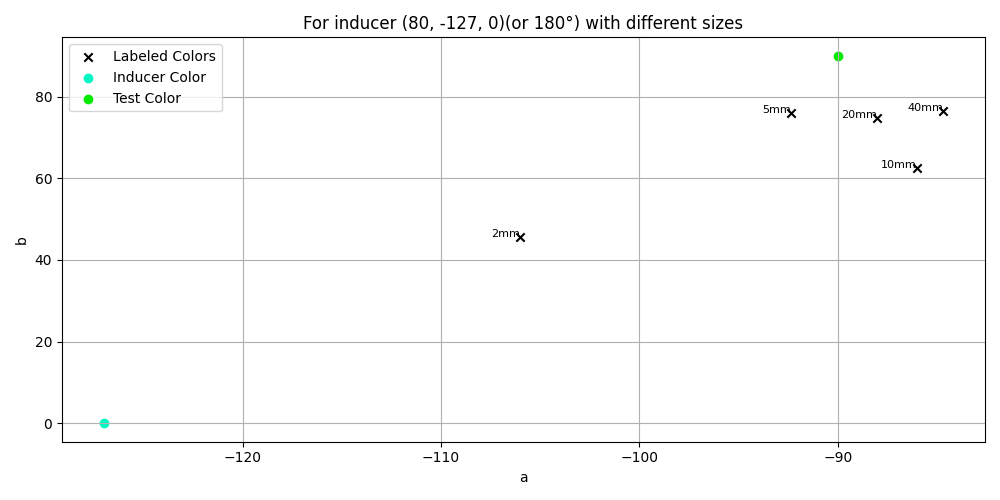
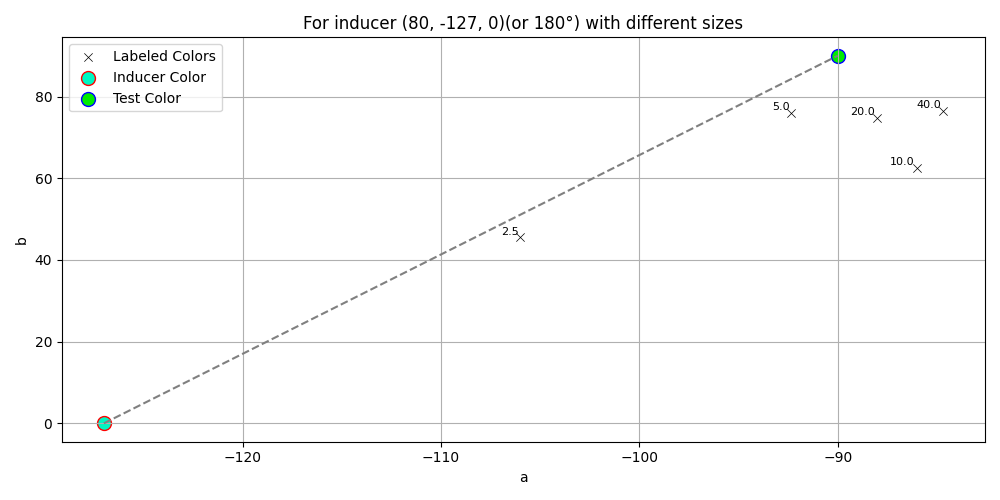
fix

diff --git a/statistics/histogram_delta_lab_e_all.py b/statistics/histogram_delta_lab_e_all.py
@@ -1,0 +1,159 @@
+import os
+import numpy as np
+import pandas as pd
+import matplotlib.pyplot as plt
+import colorsys
+
+# 从CSV文件中读取数据
+df = pd.read_csv('../updated_averaged_data_012.csv')
+
+# 提取数据
+test_color = np.array([80, -90, 90])
+inducer_colors = df[['L_inducer', 'a_inducer', 'b_inducer']].values
+labeled_colors = df[['L_label_mean', 'a_label_mean', 'b_label_mean']].values
+bar_colors = df[['R_inducer', 'G_inducer', 'B_inducer']].values / 255  # 归一化到0-1之间
+
+# 检查数据加载是否正确
+print("Data loaded successfully:")
+print(df.head())
+
+# 提取独特的sizes和hues
+unique_sizes = np.sort(df['size'].unique())
+unique_hues = np.sort(df['hue_inducer'].unique())
+
+
+# 将hue_inducer转换为RGB颜色
+def hue_to_rgb(hue):
+    return colorsys.hsv_to_rgb(hue / 360.0, 1.0, 1.0)
+
+
+# 计算ΔL, Δa, Δb
+df['ΔL'] = df['L_label_mean'] - test_color[0]
+df['Δa'] = df['a_label_mean'] - test_color[1]
+df['Δb'] = df['b_label_mean'] - test_color[2]
+
+# 计算ΔL, Δa, Δb的标准误差
+df['ΔL_sem'] = df['L_label_sem']
+df['Δa_sem'] = df['a_label_sem']
+df['Δb_sem'] = df['b_label_sem']
+
+# 计算ΔE
+df['ΔE'] = np.sqrt(df['ΔL'] ** 2 + df['Δa'] ** 2 + df['Δb'] ** 2)
+
+# 计算ΔE的标准误差
+df['ΔE_sem'] = np.sqrt(
+    (df['ΔL'] / df['ΔE'] * df['ΔL_sem']) ** 2 +
+    (df['Δa'] / df['ΔE'] * df['Δa_sem']) ** 2 +
+    (df['Δb'] / df['ΔE'] * df['Δb_sem']) ** 2
+)
+
+# 检查新列是否正确添加
+print("ΔL, Δa, Δb, ΔE columns added:")
+print(df[['ΔL', 'Δa', 'Δb', 'ΔE', 'ΔL_sem', 'Δa_sem', 'Δb_sem', 'ΔE_sem']].head())
+
+
+# 创建绘图函数
+def plot_labels(label_column, sem_column, y_label, file_name, test_value=None):
+    plt.figure(figsize=(20, 10))
+    x_ticks = []
+    x_positions = []
+
+    for hue in unique_hues:
+        mask = (df['hue_inducer'] == hue)
+        sorted_df = df[mask].sort_values(by='size')
+
+        sorted_labels = sorted_df[label_column].values
+        sorted_sems = sorted_df[sem_column].values if sem_column in sorted_df.columns else np.zeros_like(sorted_labels)
+        sorted_sizes = sorted_df['size'].values
+
+        positions = []
+        for i, size in enumerate(sorted_sizes):
+            color = hue_to_rgb(hue)
+            position = len(x_ticks) + 1
+            x_ticks.append(f'{size}')
+            x_positions.append(position)
+            positions.append(position)
+            plt.bar(position, sorted_labels[i], color=color, yerr=sorted_sems[i], capsize=5)
+
+        # 绘制线条连接相同颜色的点
+        plt.plot(positions, sorted_labels, color='black', marker='o', markersize=5, markerfacecolor='black')
+
+        x_ticks.append(f'(Hue {hue})')
+        x_positions.append(len(x_ticks) + 0.5)
+
+    # 绘制test_color对应的虚线
+    if test_value is not None:
+        plt.axhline(y=test_value, color='grey', linestyle='--', linewidth=2)
+
+    plt.xticks(ticks=np.arange(1, len(x_ticks) + 1), labels=x_ticks, rotation=90)
+    plt.xlabel("Size (and Hue in brackets)")
+    plt.ylabel(y_label)
+    plt.title(f"{y_label} for different Hues and Sizes")
+    plt.grid(True)
+    plt.tight_layout()
+    plt.savefig(f'delta_inducer/{file_name}')
+    plt.close()
+
+
+# 创建绘图函数用于不同尺寸
+def plot_labels_by_size(label_column, sem_column, y_label, file_name, test_value=None):
+    plt.figure(figsize=(20, 10))
+    x_ticks = []
+    x_positions = []
+
+    for size in unique_sizes:
+        mask = (df['size'] == size)
+        sorted_df = df[mask].sort_values(by='hue_inducer')
+
+        sorted_labels = sorted_df[label_column].values
+        sorted_sems = sorted_df[sem_column].values if sem_column in sorted_df.columns else np.zeros_like(sorted_labels)
+        sorted_hues = sorted_df['hue_inducer'].values
+
+        positions = []
+        for i, hue in enumerate(sorted_hues):
+            color = hue_to_rgb(hue)
+            position = len(x_ticks) + 1
+            x_ticks.append(f'{hue}')
+            x_positions.append(position)
+            positions.append(position)
+            plt.bar(position, sorted_labels[i], color=color, yerr=sorted_sems[i], capsize=5)
+
+        # 绘制线条连接相同尺寸的点
+        plt.plot(positions, sorted_labels, color='black', marker='o', markersize=5, markerfacecolor='black')
+
+        x_ticks.append(f'(Size {size})')
+        x_positions.append(len(x_ticks) + 0.5)
+
+    # 绘制test_color对应的虚线
+    if test_value is not None:
+        plt.axhline(y=test_value, color='grey', linestyle='--', linewidth=2)
+
+    plt.xticks(ticks=np.arange(1, len(x_ticks) + 1), labels=x_ticks, rotation=90)
+    plt.xlabel("Hue (and Size in brackets)")
+    plt.ylabel(y_label)
+    plt.title(f"{y_label} for different Sizes and Hues")
+    plt.grid(True)
+    plt.tight_layout()
+    plt.savefig(f'delta_size/{file_name}')
+    plt.close()
+
+
+# 创建保存目录
+if not os.path.exists('delta_inducer'):
+    os.makedirs('delta_inducer')
+if not os.path.exists('delta_size'):
+    os.makedirs('delta_size')
+
+# 绘制 ΔL, Δa, Δb 和 ΔE 图表 (按hue)
+plot_labels('ΔL', 'ΔL_sem', 'ΔL', 'ΔL_vs_diff_hue.png')
+plot_labels('Δa', 'Δa_sem', 'Δa', 'Δa_vs_diff_hue.png')
+plot_labels('Δb', 'Δb_sem', 'Δb', 'Δb_vs_diff_hue.png')
+plot_labels('ΔE', 'ΔE_sem', 'ΔE', 'ΔE_vs_diff_hue.png')
+
+# 绘制 ΔL, Δa, Δb 和 ΔE 图表 (按size)
+plot_labels_by_size('ΔL', 'ΔL_sem', 'ΔL', 'ΔL_vs_diff_size.png')
+plot_labels_by_size('Δa', 'Δa_sem', 'Δa', 'Δa_vs_diff_size.png')
+plot_labels_by_size('Δb', 'Δb_sem', 'Δb', 'Δb_vs_diff_size.png')
+plot_labels_by_size('ΔE', 'ΔE_sem', 'ΔE', 'ΔE_vs_diff_size.png')
+
+print("Plots generated successfully.")

diff --git a/statistics/inducer_unique.py b/statistics/inducer_unique.py
@@ -3,6 +3,7 @@ import numpy as np
 import pandas as pd
 import matplotlib.pyplot as plt
 from skimage.color import deltaE_cie76
+from adjustText import adjust_text
 
 # 从CSV文件中读取数据
 df = pd.read_csv('../updated_averaged_data_012.csv')
@@ -13,7 +14,7 @@ inducer_colors = df[['L_inducer', 'a_inducer', 'b_inducer']].values
 labeled_colors = df[['L_label_mean', 'a_label_mean', 'b_label_mean']].values
 bar_colors = df[['R_inducer', 'G_inducer', 'B_inducer']].values / 255  # 归一化到0-1之间
 hue_inducer = df['hue_inducer'].values
-test_rgb = np.array([0, 235, 0])/255
+test_rgb = np.array([0, 235, 0]) / 255
 # 计算ΔE值
 delta_E_values = np.array(
     [deltaE_cie76(test_color, result_color) for result_color in labeled_colors]
@@ -31,23 +32,38 @@ for inducer in unique_inducers:
     plt.figure(figsize=(10, 5))
 
     # 绘制label颜色
-    plt.scatter(df['a_label_mean'][mask], df['b_label_mean'][mask], c='black', marker='x', label='Labeled Colors')
+    plt.scatter(df['a_label_mean'][mask], df['b_label_mean'][mask], c='black', marker='x', label='Labeled Colors',
+                linewidth=0.5)
 
     # 绘制inducer颜色和test_color
-    plt.scatter(inducer[1], inducer[2], c=bar_colors_masked, label='Inducer Color')
+    plt.scatter(inducer[1], inducer[2], c=bar_colors_masked, s=100, edgecolors='red', label='Inducer Color')
 
     # 绘制test_color,参数单个颜色用color，多个颜色用c
-    plt.scatter(test_color[1], test_color[2], color=test_rgb, marker='o', label='Test Color')
+    plt.scatter(test_color[1], test_color[2], color=test_rgb, marker='o', s=100, edgecolors='blue', label='Test Color')
 
-    # 标注size
-    for i, size in enumerate(df['size'][mask]):
-        plt.text(df['a_label_mean'][mask].values[i], df['b_label_mean'][mask].values[i], f'{int(size)}mm', fontsize=8, ha='right')
+    # 添加虚线（直线）将test color和inducer color连起来
+    plt.plot([inducer[1], test_color[1]], [inducer[2], test_color[2]], linestyle='--', color='gray')
+
+    # 标注size并优化文本标签位置避免重叠
+    texts = []
+    for i, (a, b, size) in enumerate(zip(df['a_label_mean'][mask], df['b_label_mean'][mask], df['size'][mask])):
+        if '.' in str(size):
+            label = f'{size:.1f}'
+        else:
+            label = f'{int(size)}'
+        texts.append(plt.text(a, b, label, fontsize=8, ha='right', va='bottom'))
+
+    adjust_text(texts, arrowprops=dict(arrowstyle='-', color='gray'))
+
     plt.xlabel("a")
     plt.ylabel("b")
     inducer_int = tuple(int(x) for x in inducer)
     plt.title(f"For inducer {inducer_int}(or {int(hue_inducer[mask][0])}°) with different sizes")
     plt.legend()
+
+    # 保留网格线
     plt.grid(True)
+
     plt.tight_layout()
     plt.savefig(f'inducer_unique_plots/inducer_{inducer[0]}_{inducer[1]}_{inducer[2]}.png')
     plt.close()

diff --git a/statistics/size_unique.py b/statistics/size_unique.py
@@ -3,6 +3,8 @@ import numpy as np
 import pandas as pd
 import matplotlib.pyplot as plt
 from skimage.color import deltaE_cie76
+from matplotlib.colors import hsv_to_rgb
+from matplotlib.lines import Line2D
 
 # 从CSV文件中读取数据
 df = pd.read_csv('../updated_averaged_data_012.csv')
@@ -36,22 +38,30 @@ for size in unique_sizes:
     for i, hue in enumerate(hue_inducer[mask]):
         plt.annotate(f'{int(hue)}°', (df['a_inducer'][mask].values[i], df['b_inducer'][mask].values[i]), textcoords="offset points", xytext=(0,10), ha='center', fontsize=8, color='black')
 
-    # 绘制label颜色，并用对应bar_color的箭头指向label颜色
+    # 绘制label颜色，并用bar_color标记，使用偏移区分重合点
     for i in range(len(df[mask])):
-        plt.scatter(df['a_label_mean'][mask].values[i], df['b_label_mean'][mask].values[i], c='black', marker='x')
+        offset = i * 0.1  # 添加偏移
+        plt.scatter(df['a_label_mean'][mask].values[i] + offset, df['b_label_mean'][mask].values[i] + offset,
+                    c=[bar_colors[mask][i]], marker='x')
         plt.arrow(test_color[1], test_color[2],
-                  df['a_label_mean'][mask].values[i] - test_color[1],
-                  df['b_label_mean'][mask].values[i] - test_color[2],
-                  color=bar_colors[mask][i], head_width=1, head_length=2, length_includes_head=True)
+                  df['a_label_mean'][mask].values[i] + offset - test_color[1],
+                  df['b_label_mean'][mask].values[i] + offset - test_color[2],
+                  color=bar_colors[mask][i], linestyle='--', head_width=1, head_length=2, length_includes_head=True)
 
     # 绘制test_color
-    plt.scatter(test_color[1], test_color[2], color=test_rgb, marker='o'
-                                                                     '', label='Test Color')
+    plt.scatter(test_color[1], test_color[2], color=test_rgb, marker='o', label='Test Color')
+
+    # 优化图例
+    legend_elements = [
+        Line2D([0], [0], marker='o', color='w', label='Test Color', markerfacecolor=test_rgb, markersize=10),
+        Line2D([0], [0], marker='x', color='w', label='Label Colors', markerfacecolor='k', markersize=10),
+        Line2D([0], [0], linestyle='--', color='k', label='Connection Lines')
+    ]
+    plt.legend(handles=legend_elements, loc='upper right')
 
     plt.xlabel("a")
     plt.ylabel("b")
     plt.title(f"For size {size} with different inducers")
-    plt.legend()
     plt.grid(True)
     plt.tight_layout()
     plt.savefig(f'size_unique_plots/size_{size}.png')
